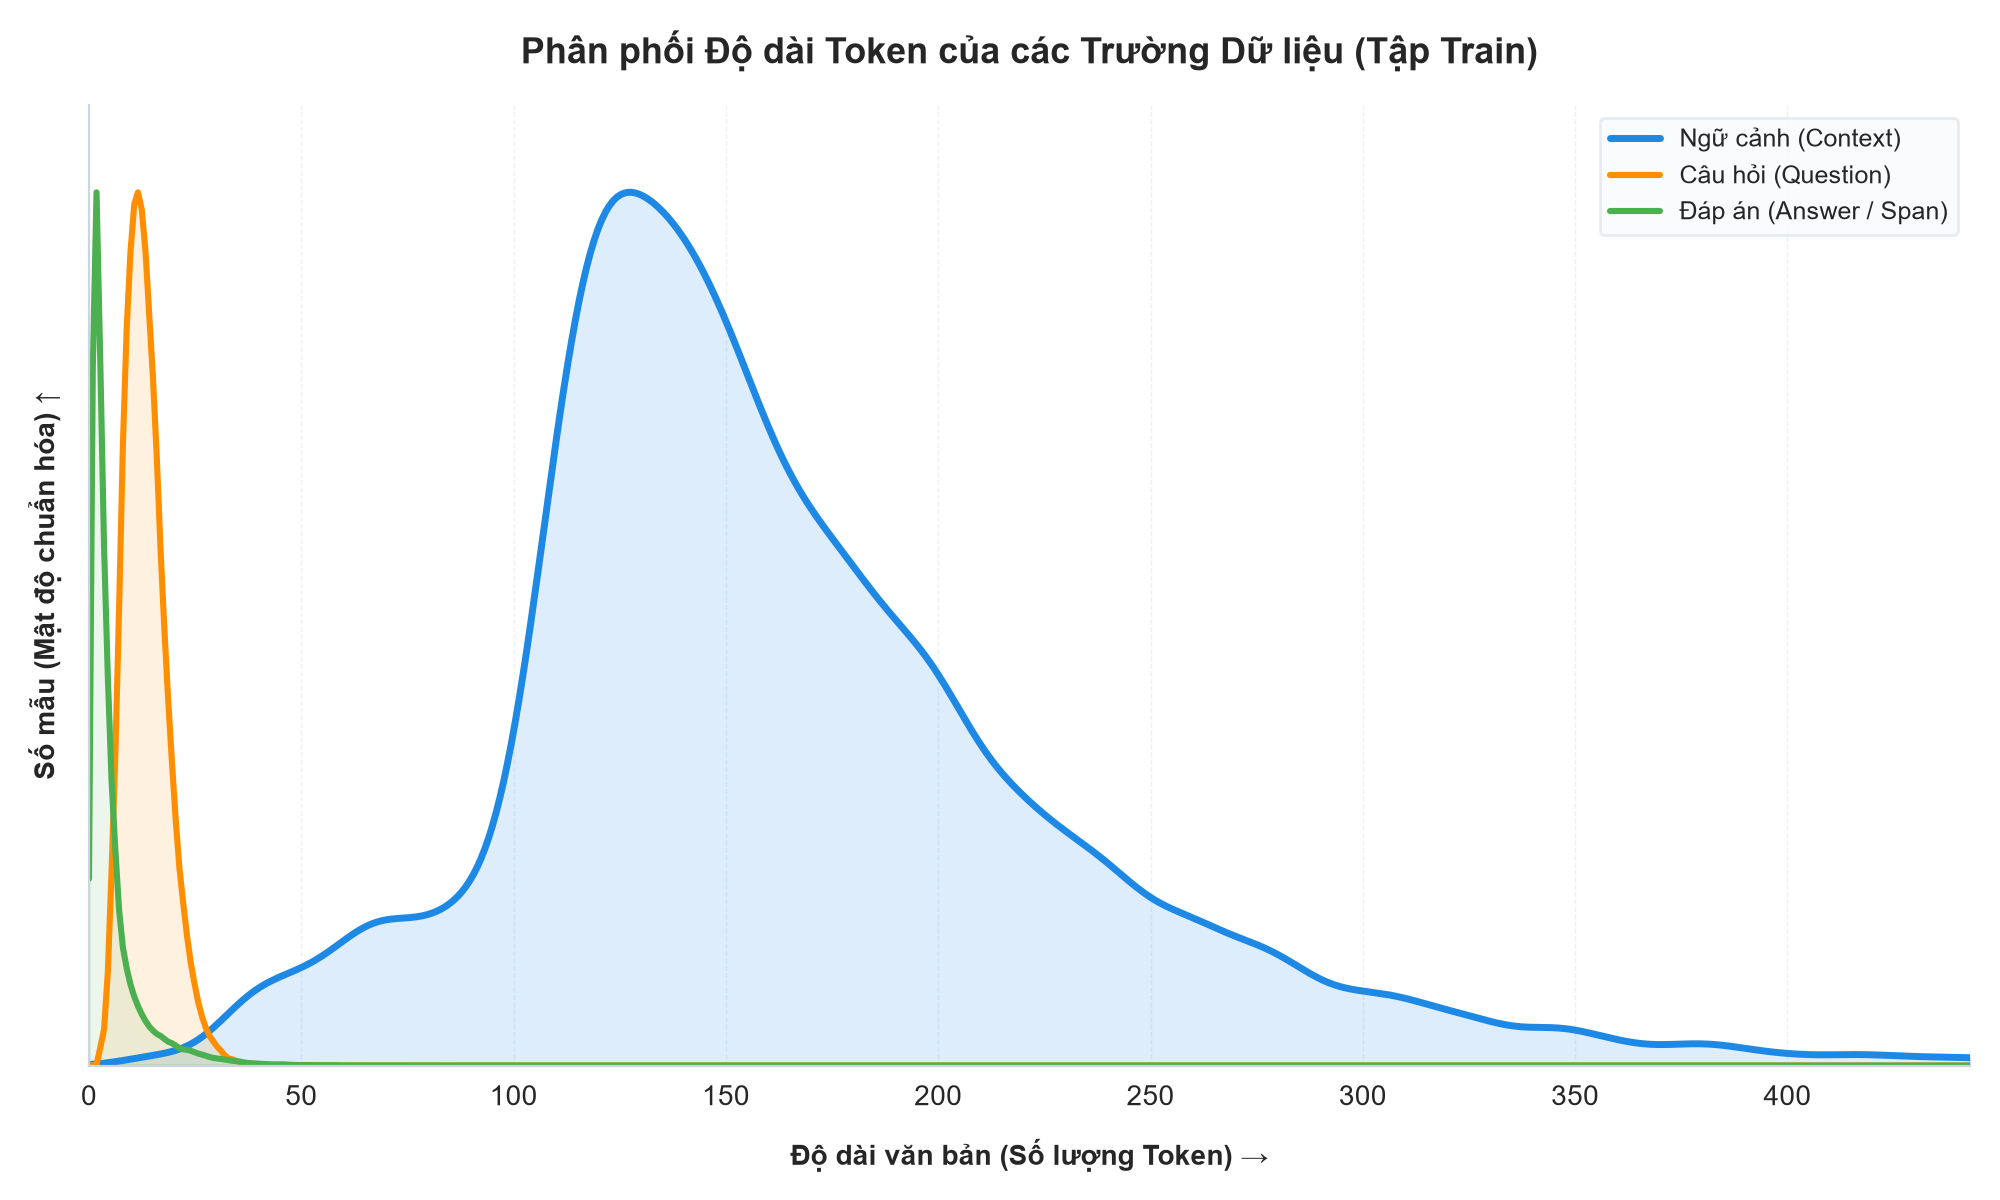
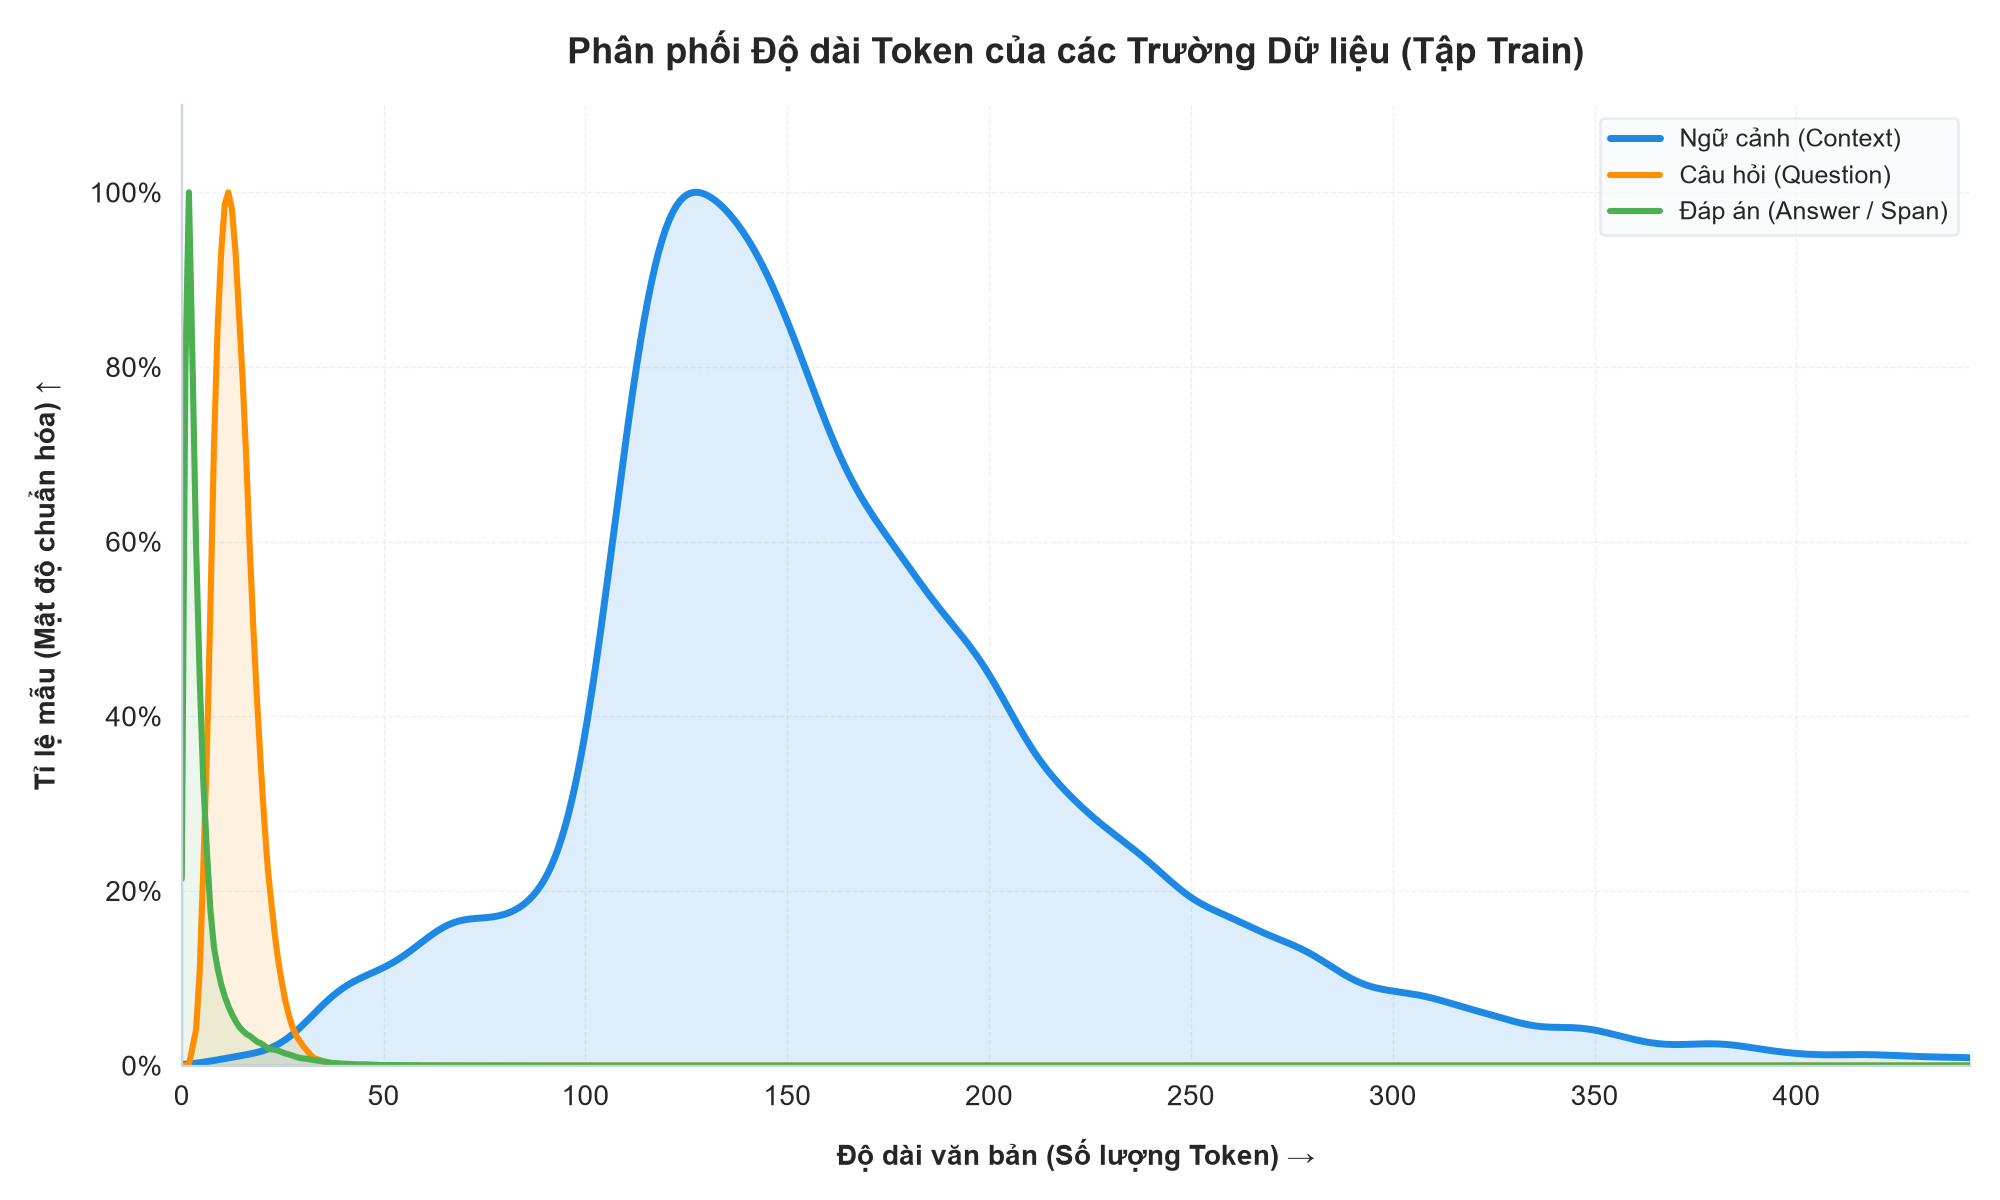
fix

diff --git a/scratch/test_plot.py b/scratch/test_plot.py
@@ -71,14 +71,15 @@ def main():
     # Add title and labels
     ax.set_title("Phân phối Độ dài Token của các Trường Dữ liệu (Tập Train)", fontsize=13, fontweight="bold", pad=15)
     ax.set_xlabel("Độ dài văn bản (Số lượng Token) →", fontsize=10, fontweight="semibold", labelpad=10)
-    ax.set_ylabel("Số mẫu (Mật độ chuẩn hóa) ↑", fontsize=10, fontweight="semibold", labelpad=10)
+    ax.set_ylabel("Tỉ lệ mẫu mẫu (Mật độ chuẩn hóa) ↑", fontsize=10, fontweight="semibold", labelpad=10)
     
-    # Hide the default y ticks because it is normalized
-    ax.set_yticks([])
+    # Add numerical labels/ticks on y-axis (representing percentage of maximum density)
+    ax.set_yticks([0, 0.2, 0.4, 0.6, 0.8, 1.0])
+    ax.set_yticklabels(["0%", "20%", "40%", "60%", "80%", "100%"])
     
     # Stylize grid and spines
     ax.grid(True, linestyle="--", linewidth=0.5, color="#E2E8F0", alpha=0.6)
-    sns.despine(left=False, bottom=False)  # standard Seaborn spine removal
+    sns.despine(ax=ax, left=False, bottom=False)  # standard Seaborn spine removal
     
     # Customize spine colors
     ax.spines["left"].set_color("#CBD5E1")

diff --git a/src/data/eda.py b/src/data/eda.py
@@ -95,10 +95,11 @@ def plot_token_distributions(ctx_len, q_len, a_len):
     
     ax.set_title("Phân phối Độ dài Token của các Trường Dữ liệu (Tập Train)", fontsize=13, fontweight="bold", pad=15)
     ax.set_xlabel("Độ dài văn bản (Số lượng Token) →", fontsize=10, fontweight="semibold", labelpad=10)
-    ax.set_ylabel("Số mẫu (Mật độ chuẩn hóa) ↑", fontsize=10, fontweight="semibold", labelpad=10)
+    ax.set_ylabel("Tỉ lệ mẫu (Mật độ chuẩn hóa) ↑", fontsize=10, fontweight="semibold", labelpad=10)
     
-    # Ẩn các vạch trên trục tung do đã chuẩn hóa
-    ax.set_yticks([])
+    # Hiển thị vạch tỷ lệ phần trăm tương đối trên trục tung
+    ax.set_yticks([0, 0.2, 0.4, 0.6, 0.8, 1.0])
+    ax.set_yticklabels(["0%", "20%", "40%", "60%", "80%", "100%"])
     
     # Thiết lập lưới và đường bao bằng despine của Seaborn
     ax.grid(True, linestyle="--", linewidth=0.5, color="#E2E8F0", alpha=0.6)

diff --git a/README.md b/README.md
@@ -274,15 +274,6 @@ Dựa trên kết quả phân tích lỗi của mô hình M1, các loại lỗi 
 
 *   **Lỗi biên (Span dư thừa/thiếu)**: **84.8%** (Mô hình chọn đúng vùng chứa đáp án nhưng trích xuất dư hoặc thiếu các từ ở biên như chức danh, danh xưng).
 *   **Sai span hoàn toàn (đáp án có trong ngữ cảnh)**: **15.2%** (Model chọn sai vùng dữ liệu do ngữ cảnh dài hoặc nhiều thực thể gây nhiễu).
-*   **Nhãn nhiễu / Lỗi dữ liệu**: **0.0%** (Do tập dữ liệu kiểm thử `test_clean.json` đã được lọc sạch các nhiễu dịch máy ở bước tiền xử lý).
-
-### Các ví dụ lỗi tiêu biểu:
-1. **Lỗi biên (dư thừa từ ngữ cảnh) - 45%**: 
-   * *Câu hỏi*: "Ai là bộ trưởng bộ quốc phòng Việt Nam?"
-   * *Nhãn gốc*: `Ngô Xuân Lịch`
-   * *Mô hình dự đoán*: `Đại tướng Ngô Xuân Lịch` (Dư thừa chức danh quân hàm).
-2. **Sai lệch span hoàn toàn - 41.7%**:
-   * Thường xuất hiện trong các đoạn văn dài chứa nhiều thực thể có cùng kiểu (ví dụ: đoạn văn có nhiều tên người hoặc nhiều mốc thời gian khác nhau) dẫn đến mô hình bị phân tán xác suất trích xuất.
 
 ### Hướng cải thiện đề xuất:
 * **Hậu xử lý (Post-processing)**: Xây dựng bộ lọc loại bỏ các chức danh, danh xưng tiếng Việt thông dụng (`ông`, `bà`, `Đại tướng`, `Giám đốc`...) khỏi câu trả lời được trích xuất.